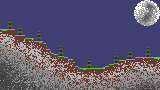
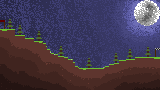
added 2 maps, changed ninja speed& C:/Users/LarsV/scoop/apps/python/current/python.exe g:/School/Python/walking-simulator/walking_simulator.py

diff --git a/walking_simulator.py b/walking_simulator.py
@@ -84,13 +84,13 @@ class character:
 
 # maakt classes voor de maps
 class desert:
-    max_height = 770
+    spawn_height = 770
     hitbox = [(0, 770, screen_width, 50)]
     bg = pygame.image.load("./images/map_bgs/desert.png").convert()
     bg = pygame.transform.scale(bg, (screen_width, screen_height))
 
 class mountain:
-    max_height = 290
+    spawn_height  = 570
     hitbox = [(0, 290, 150, 80), (150, 350, 100, 50), (250, 380, 90, 50),
               (340, 410, 90, 50), (430, 430, 30, 50), (460, 460, 10, 50),
               (470, 490, 30, 50), (500, 510, 10, 50), (510, 530, 30, 50),
@@ -100,6 +100,42 @@ class mountain:
               (1050, 660, 40, 50), (1090, 640, 50, 50), (1140, 630, 50, 50),
               (1190, 600, 70, 50), (1260, 590, 90, 50), (1350, 570, 250, 50)]
     bg = pygame.image.load("./images/map_bgs/mountain.png").convert()
+    bg = pygame.transform.scale(bg, (screen_width, screen_height))
+
+class tabletop:
+    spawn_height = 570
+    hitbox = [(0, 570, 410, 100), (410, 520, 30, 70), (440, 490, 70, 50),
+              (510, 450, 90, 50), (600, 470, 100, 60), (700, 450, 50, 70),
+              (750, 500, 60, 50), (810, 530, 30, 60), (840, 570, 190, 100),
+              (1030, 530, 170, 60), (1200, 570, 160, 100), (1360, 530, 20, 60),
+              (1380, 500, 60, 50), (1440, 530, 10, 60), (1450, 570, 150, 100)]
+    bg = pygame.image.load("./images/map_bgs/tabletop.png").convert()
+    bg = pygame.transform.scale(bg, (screen_width, screen_height))
+
+class crystal:
+    spawn_height = 630
+    hitbox = [(0, 690, 30, 30), (30, 680, 40, 30), (70, 670, 40, 30),
+              (110, 660, 40, 30), (150, 650, 40, 30), (190, 640, 40, 30),
+              (230, 630, 40, 30), (270, 620, 40, 30), (310, 610, 40, 30),
+              (350, 600, 40, 30), (390, 590, 40, 30), (430, 600, 20, 30),
+              (450, 610, 20, 30), (470, 620, 20, 30), (490, 630, 20, 30),
+              (510, 640, 20, 30), (530, 650, 20, 30), (550, 660, 20, 30),
+              (570, 670, 20, 30), (590, 680, 20, 30), (610, 690, 20, 30),
+              (630, 700, 20, 30), (650, 710, 20, 30), (670, 720, 20, 30),
+              (690, 730, 20, 30), (710, 740, 20, 30), (730, 730, 20, 30),
+              (750, 720, 20, 30), (770, 710, 20, 30), (790, 700, 20, 30),
+              (810, 690, 20, 30), (830, 680, 20, 30), (850, 670, 20, 30),
+              (870, 660, 20, 30), (890, 650, 20, 30), (910, 640, 20, 30),
+              (930, 630, 50, 30), (980, 620, 50, 30), (1030, 610, 50, 30),
+              (1080, 600, 50, 30), (1130, 590, 50, 30), (1180, 580, 50, 30),
+              (1230, 570, 50, 30), (1280, 560, 50, 30), (1330, 550, 50, 30),
+              (1380, 540, 50, 30), (1430, 530, 30, 30), (1460, 540, 10, 30),
+              (1470, 550, 10, 30), (1480, 560, 10, 30), (1490, 570, 10, 30),
+              (1500, 580, 10, 30), (1510, 590, 10, 30), (1520, 600, 10, 30),
+              (1530, 610, 10, 30), (1540, 620, 10, 30), (1550, 630, 10, 30),
+              (1560, 640, 10, 30), (1570, 650, 10, 30), (1580, 660, 10, 30),
+              (1590, 670, 10, 30)]
+    bg = pygame.image.load("./images/map_bgs/crystal.png").convert()
     bg = pygame.transform.scale(bg, (screen_width, screen_height))
 
 # maakt de class voor confetti :)
@@ -132,7 +168,7 @@ class ninja:
         self.y = min_y
         self.width = 40
         self.height = 60
-        self.frame = -100
+        self.frame = -88
         self.hitbox = (self.x, self.y, self.width, self.height)
         self.sprites = [pygame.image.load("./images/ninja_event/ninja1.png").convert_alpha(),
                         pygame.image.load("./images/ninja_event/ninja2.png").convert_alpha(),
@@ -532,7 +568,7 @@ def check_ninja(player, objects, keys):
     this_ninja = objects[0]
 
     # maakt een frame counter
-    frame = int(this_ninja.frame/10)
+    frame = int(this_ninja.frame/8)
 
     # maakt 15 ninja sterren
     while len(objects) < 16 and frame > 5:
@@ -573,7 +609,7 @@ def check_ninja(player, objects, keys):
 
     # zorgt ervoor dat de frames van de ninja goed getekend worden
     if frame < 0:
-        this_ninja.smoke.set_alpha((abs(frame)/10)*255)
+        this_ninja.smoke.set_alpha((abs(frame+1)/10)*255)
     elif frame < 8:
         this_ninja.sprites[frame] = pygame.transform.scale(this_ninja.sprites[frame], (this_ninja.width, this_ninja.height))
         screen.blit(this_ninja.sprites[frame], (this_ninja.x, this_ninja.y))
@@ -627,9 +663,9 @@ def check_bandit(player, objects, keymod):
     return objects, player, kill_object
 
 # zorgt ervoor dat alles werkt en geladen word
-map_list = [desert(), mountain()]
+map_list = [desert(), mountain(), tabletop(), crystal()]
 Ground = map_list[random.randrange(0, len(map_list), 1)]
-Player = character(Ground.max_height-50)
+Player = character(Ground.hitbox[0][1]-50)
 Player.load_sprites()
 
 # voor altijd
@@ -734,7 +770,7 @@ while True:
 
         # voor random events
         if random.randrange(1, 5*max_fps, 1) == 1 and event_active == -1:
-            event_classes = [birb(1700, Player.y), ninja(Ground.hitbox[len(Ground.hitbox)-1][1]-250), bandit(Ground.hitbox[len(Ground.hitbox)-1][1]-40)]
+            event_classes = [birb(1700, Player.y), ninja(Ground.spawn_height-250), bandit(Ground.spawn_height-40)]
             event_active = random.randrange(0, len(event_classes), 1)
             event_object.append(event_classes[event_active])
 
